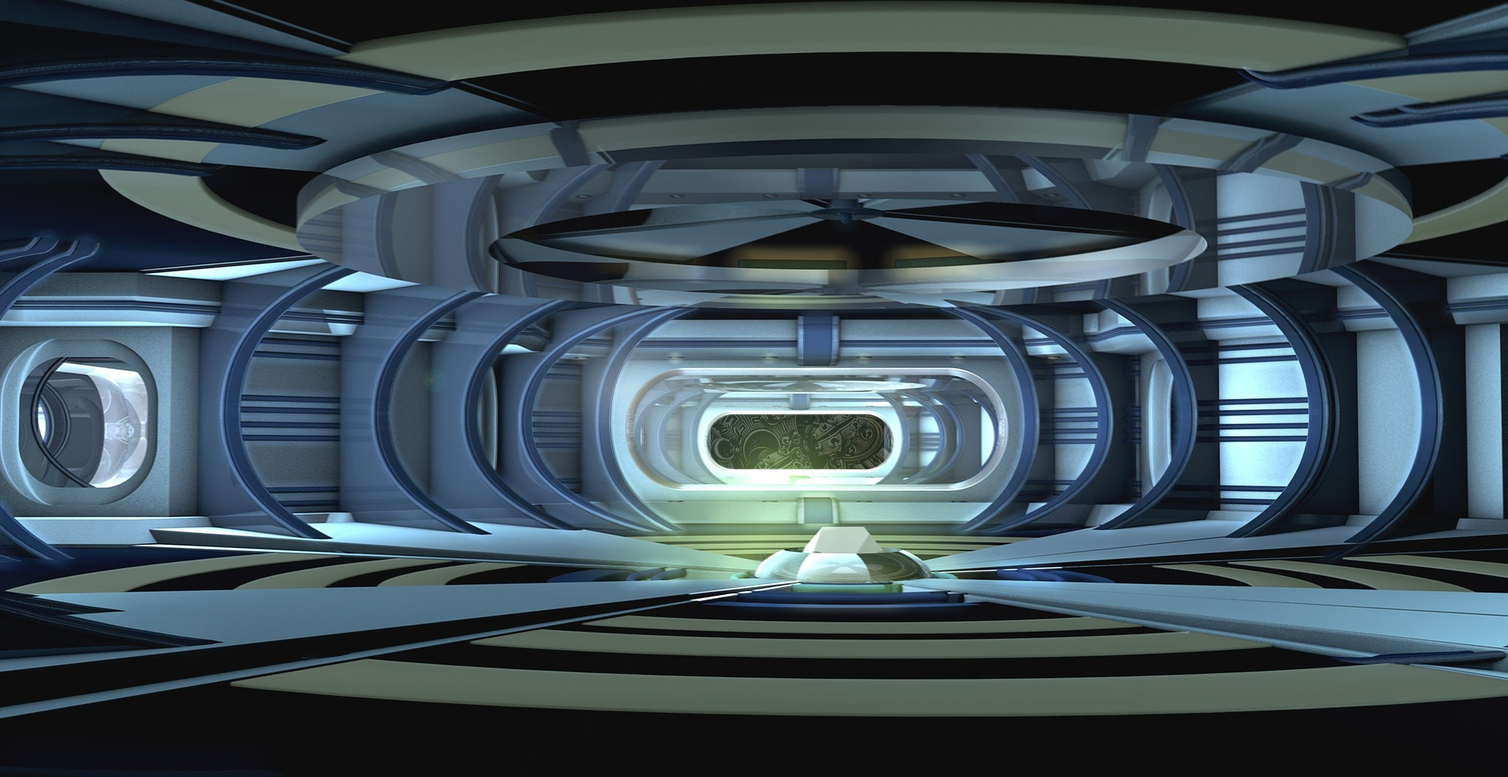
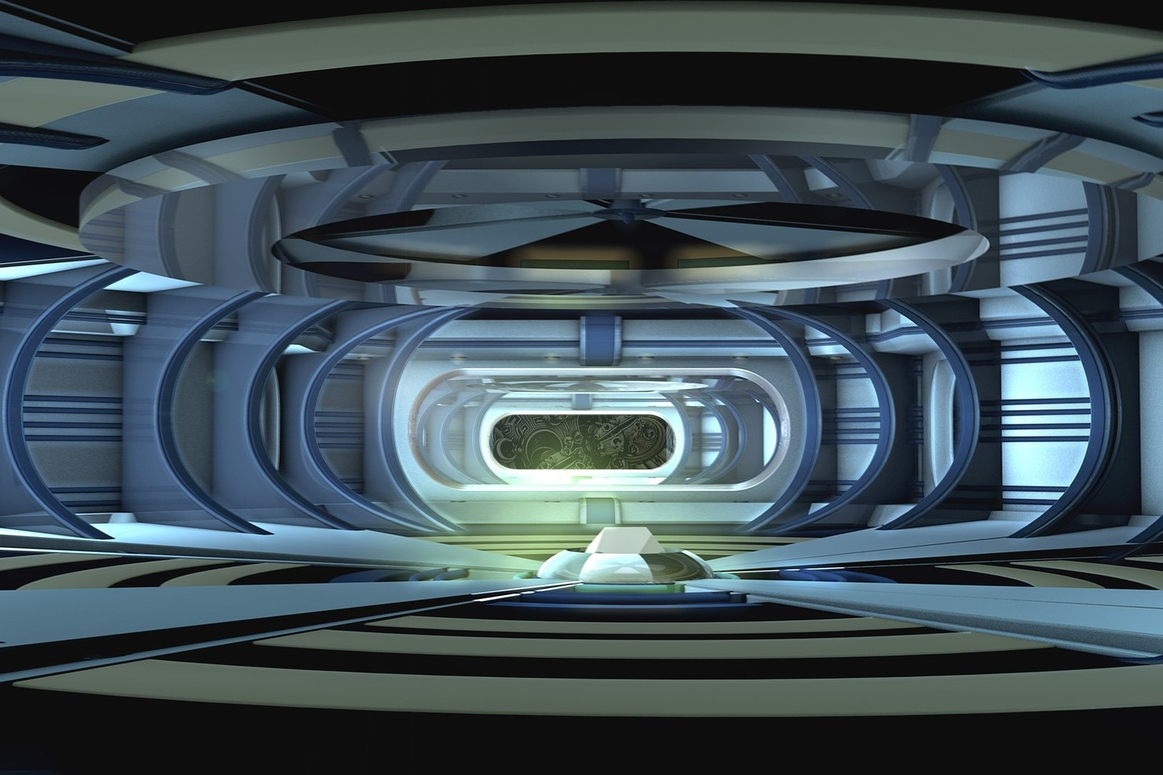
Added inventory to UI bar and edited background styling

diff --git a/Kepler.html b/Kepler.html
@@ -147,6 +147,23 @@ var saveAs=saveAs||navigator.msSaveBlob&&navigator.msSaveBlob.bind(navigator)||f
   	background: firebrick;
 }
 
+/*******************************
+*Background Styling
+*******************************/
+
+body{
+  background-repeat: no-repeat;
+  background-size: 90%;
+  background-position: 100% 0%;
+}
+
+
+
+
+
+
+
+
 
 
 </style><script role="script" id="twine-user-script" type="text/twine-javascript">
@@ -154,34 +171,49 @@ var saveAs=saveAs||navigator.msSaveBlob&&navigator.msSaveBlob.bind(navigator)||f
 
 
 
-</script><tw-tag name="Core" color="purple"></tw-tag>,<tw-tag name="BGProcess" color="red"></tw-tag><tw-passagedata pid="1" name="Start" tags="Core" position="292,34" size="200,100">&lt;img src = &quot;images/startbackground.jpg&quot; width = &quot;95%&quot; alt = &quot;A spaceship interior with a window looking out into space&quot;&gt;
 
-&lt;&lt;audio &quot;maintheme&quot; play volume 0.25 fadeoverto 5 0.75&gt;&gt;
 
-&lt;center&gt; You wake up in a daze on the a cold, metal floor. You get up and begin to shake off the feeling of confusion and fatigue. You look around the room to find anything that feels familiar. &lt;/center&gt;
 
-[[Continue]]</tw-passagedata><tw-passagedata pid="2" name="StoryInit" tags="BGProcess" position="50,100" size="100,100">// Caching audio files for playback
+
+
+
+
+
+
+</script><tw-tag name="Core" color="purple"></tw-tag>,<tw-tag name="BGProcess" color="red"></tw-tag><tw-passagedata pid="1" name="Start" tags="Core" position="292,34" size="200,100">&lt;&lt;script&gt;&gt;
+document.body.style.backgroundImage= &quot;url(&#39;images/startBackground.jpg&#39;)&quot;
+&lt;&lt;/script&gt;&gt;
+&lt;&lt;audio &quot;maintheme&quot; play volume 0.25 fadeoverto 5 0.75&gt;&gt;\
+You wake up in a daze on the a cold, metal floor. You get up and begin to shake off the feeling of confusion and fatigue. You look around the room to find anything that feels familiar.
+[[Continue]]\
+</tw-passagedata><tw-passagedata pid="2" name="StoryInit" tags="BGProcess" position="50,100" size="100,100">// Caching audio files for playback
 &lt;&lt;cacheaudio &quot;maintheme&quot; &quot;sounds/maintheme.mp3&quot;&gt;&gt;
 
 // Initialize karma variable to 0 (range is -100 to 100)
 &lt;&lt;set $karma = 0&gt;&gt;
 
-&lt;&lt;set $keycard to false&gt;&gt;</tw-passagedata><tw-passagedata pid="3" name="Window" tags="" position="95,371" size="100,100">&lt;img src = &quot;images/startwindow.jpg&quot; alt = &quot;A view from a large window&quot;&gt;
-
+/********************************************************
+*Initialize all inventory item types to 0, the value at
+*each index represents number of each object type held
+*[0]=red keys
+*[1]=grey keys
+*[2]=green keys
+*********************************************************/
+&lt;&lt;set $inventory=[0,0,0]&gt;&gt;</tw-passagedata><tw-passagedata pid="3" name="Window" tags="" position="95,371" size="100,100">&lt;&lt;script&gt;&gt;
+document.body.style.backgroundImage= &quot;url(&#39;images/startwindow.jpg&#39;)&quot;
+&lt;&lt;/script&gt;&gt;
 You look out through the thick glass pane to see nothing but a large, blue planet with a star peeking just over the horizon.
 
 [[Step back from window|Continue]]
-</tw-passagedata><tw-passagedata pid="4" name="Hallway" tags="" position="613,363" size="100,100">&lt;img src = &quot;images/corridor.jpg&quot; width = &quot;95%&quot; alt = &quot;A large hub with several hallways connected to it.&quot;&gt;
-
+</tw-passagedata><tw-passagedata pid="4" name="Hallway" tags="" position="613,363" size="100,100">&lt;&lt;script&gt;&gt;
+document.body.style.backgroundImage= &quot;url(&#39;images/corridor.jpg&#39;)&quot;
+&lt;&lt;/script&gt;&gt;
 You leave the room and find yourself in a large chamber with several long corridors. Each corridor seems more extensive than the next.
-
-[[Continue|AI Intro]] </tw-passagedata><tw-passagedata pid="5" name="Continue" tags="Core" position="288,165" size="200,100">&lt;img src = &quot;images/startbackground.jpg&quot; width = &quot;95%&quot; alt = &quot;A spaceship interior with a window looking out into space&quot;&gt;
-
-
+[[Continue|AI Intro]] </tw-passagedata><tw-passagedata pid="5" name="Continue" tags="Core" position="288,163" size="200,100">&lt;&lt;script&gt;&gt;
+document.body.style.backgroundImage= &quot;url(&#39;images/startBackground.jpg&#39;)&quot;
+&lt;&lt;/script&gt;&gt;
 You notice a large [[window|Window]] on the other side of the room and behind you there is a large [[Door]] . To the left you notice a [[desk|Desk]]
-
-
-&lt;&lt;if $keycard is true&gt;&gt;You have a keycard&lt;&lt;endif&gt;&gt;</tw-passagedata><tw-passagedata pid="6" name="StoryCaption" tags="" position="50,225" size="100,100">/****************************
+&lt;&lt;if $keycard is true&gt;&gt;You have a keycard&lt;&lt;endif&gt;&gt;</tw-passagedata><tw-passagedata pid="6" name="StoryCaption" tags="" position="48,223" size="100,100">/****************************
 * Karma meter
 ****************************/\
 \
@@ -192,8 +224,24 @@ Karma Status
 document.getElementById(&quot;karmameter&quot;).value = variables().karma;
 &lt;&lt;/script&gt;&gt;\
 &lt;&lt;print &quot;\n&quot; + $karma&gt;&gt;
-&lt;hr/&gt;</tw-passagedata><tw-passagedata pid="7" name="AI Intro" tags="" position="625,500" size="100,100">&lt;img src = &quot;images/corridor.jpg&quot; width = &quot;95%&quot; alt = &quot;A large hub with several hallways connected to it.&quot;&gt;
+\
+/*****************************
+*Inventory
+******************************/\
+&lt;hr/&gt;\
+&lt;div id=&quot;inventoryUI&quot; align=&quot;left&quot;&gt;\
+&lt;img src=&quot;images/keycardred.png&quot; alt=&quot;red keycard&quot; style=&quot;width:20%; vertical-align: middle;&quot;&gt;\
+&lt;span style=&quot;vertical-align: middle&quot;&gt; x &lt;&lt;print $inventory[0]&gt;&gt;&lt;/span&gt;
 
+&lt;img src=&quot;images/keycardgrey.png&quot; alt=&quot;grey keycard&quot; style=&quot;width:20%; vertical-align: middle;&quot;&gt;\
+&lt;span style=&quot;vertical-align: middle&quot;&gt; x &lt;&lt;print $inventory[1]&gt;&gt;&lt;/span&gt;
+
+&lt;img src=&quot;images/keycardgreen.png&quot; alt=&quot;green keycard&quot; style=&quot;width:20%; vertical-align: middle;&quot;&gt;\
+&lt;span style=&quot;vertical-align: middle&quot;&gt; x &lt;&lt;print $inventory[2]&gt;&gt;&lt;/span&gt;
+&lt;/div&gt;\
+&lt;&lt;script&gt;&gt;
+document.getElementById(&quot;inventoryUI&quot;).style.marginLeft=&quot;20px&quot;;
+&lt;&lt;/script&gt;&gt;\</tw-passagedata><tw-passagedata pid="7" name="AI Intro" tags="" position="625,501" size="100,100">
 A female voice comes over the spaceship&#39;s intercom and states,
 
 &quot;You have been hibernating for quite some time and we will soon be arriving at our destination, Kepler-452b. How are you feeling commander?&quot;
@@ -216,16 +264,17 @@ document.getElementById(&quot;karmameter&quot;).value = variables().karma;
 \
 /*Links are added that update karma state in ui bar and continue to a new passage depending on the response chosen*/
 
-</tw-passagedata><tw-passagedata pid="8" name="Ask Accusingly" tags="" position="750,400" size="100,100">&lt;img src = &quot;images/corridor.jpg&quot; width = &quot;95%&quot; alt = &quot;A large hub with several hallways connected to it.&quot;&gt;
-&quot;How dare you accuse me of such things, you were sent on this mission alone.&quot;</tw-passagedata><tw-passagedata pid="9" name="Ask Curiously" tags="" position="750,600" size="100,100">&lt;img src = &quot;images/corridor.jpg&quot; width = &quot;95%&quot; alt = &quot;A large hub with several hallways connected to it.&quot;&gt;
-&quot;You were sent on this mission alone, don&#39;t you remember commander?&quot;</tw-passagedata><tw-passagedata pid="10" name="Desk" tags="" position="224,373" size="100,100">
-
-You find a key card on the desk. [[Take keycard]]
-[[step away from desk|Continue]]
-
-</tw-passagedata><tw-passagedata pid="11" name="Take keycard" tags="" position="358,375" size="100,100">&lt;&lt;set $keycard to true&gt;&gt;
-
-You take the keycard [[step away from the desk|Continue]]</tw-passagedata><tw-passagedata pid="12" name="Door" tags="" position="473,363" size="100,100">&lt;&lt;if $keycard is true&gt;&gt; You use the keycard to open the door to the [[hallway|Hallway]] &lt;&lt;else&gt;&gt; The door is locked. [[Look around the room|Continue]] &lt;&lt;endif&gt;&gt;</tw-passagedata></tw-storydata></div>
+</tw-passagedata><tw-passagedata pid="8" name="Ask Accusingly" tags="" position="750,400" size="100,100">
+&quot;How dare you accuse me of such things, you were sent on this mission alone.&quot;</tw-passagedata><tw-passagedata pid="9" name="Ask Curiously" tags="" position="750,600" size="100,100">
+&quot;You were sent on this mission alone, don&#39;t you remember commander?&quot;</tw-passagedata><tw-passagedata pid="10" name="Desk" tags="" position="223,374" size="100,100">
+You find a key card on the desk.
+&lt;&lt;link [[Take the keycard|Continue]]&gt;&gt;\
+&lt;&lt;set $inventory[0]++&gt;&gt;\
+&lt;&lt;/link&gt;&gt;\</tw-passagedata><tw-passagedata pid="11" name="Door" tags="" position="473,363" size="100,100">&lt;&lt;if $inventory[0] gt 0&gt;&gt;
+You use the keycard to open the door to the [[hallway|Hallway]] 
+&lt;&lt;set $inventory[0]--&gt;&gt;\
+&lt;&lt;else&gt;&gt; The door is locked. [[Look around the room|Continue]]\
+&lt;&lt;endif&gt;&gt;</tw-passagedata></tw-storydata></div>
 	<script id="script-sugarcube" type="text/javascript">
 	/*! SugarCube JS */
 	if(document.documentElement.getAttribute("data-init")==="loading"){!function(window,document,jQuery,undefined){"use strict";function _classCallCheck(e,t){if(!(e instanceof t))throw new TypeError("Cannot call a class as a function")}function _toConsumableArray(e){if(Array.isArray(e)){for(var t=0,r=Array(e.length);t<e.length;t++)r[t]=e[t];return r}return Array.from(e)}var _createClass=function(){function e(e,t){for(var r=0;r<t.length;r++){var n=t[r];n.enumerable=n.enumerable||!1,n.configurable=!0,"value"in n&&(n.writable=!0),Object.defineProperty(e,n.key,n)}}return function(t,r,n){return r&&e(t.prototype,r),n&&e(t,n),t}}(),_slicedToArray=function(){function e(e,t){var r=[],n=!0,a=!1,i=undefined;try{for(var o,s=e[Symbol.iterator]();!(n=(o=s.next()).done)&&(r.push(o.value),!t||r.length!==t);n=!0);}catch(e){a=!0,i=e}finally{try{!n&&s.return&&s.return()}finally{if(a)throw i}}return r}return function(t,r){if(Array.isArray(t))return t;if(Symbol.iterator in Object(t))return e(t,r);throw new TypeError("Invalid attempt to destructure non-iterable instance")}}(),_typeof="function"==typeof Symbol&&"symbol"==typeof Symbol.iterator?function(e){return typeof e}:function(e){return e&&"function"==typeof Symbol&&e.constructor===Symbol&&e!==Symbol.prototype?"symbol":typeof e},Alert=function(){function e(e,t,r,n){var a="fatal"===e,i="Apologies! "+(a?"A fatal":"An")+" error has occurred.";i+=a?" Aborting.":" You may be able to continue, but some parts may not work properly.",null==t&&null==r||(i+="\n\nError",null!=t&&(i+=" ["+t+"]"),i+=null!=r?": "+r.replace(/^(?:(?:uncaught\s+(?:exception:\s+)?)?error:\s+)+/i,"")+".":": unknown error."),"object"===("undefined"==typeof n?"undefined":_typeof(n))&&n.stack&&(i+="\n\nStack Trace:\n"+n.stack),window.alert(i)}function t(t,r,n){e(null,t,r,n)}function r(t,r,n){e("fatal",t,r,n)}return function(e){window.onerror=function(n,a,i,o,s){"complete"===document.readyState?t(null,n,s):(r(null,n,s),window.onerror=e,"function"==typeof window.onerror&&window.onerror.apply(this,arguments))}}(window.onerror),Object.freeze(Object.defineProperties({},{error:{value:t},fatal:{value:r}}))}();!function(){function e(e,t){var a=String(e);switch(t){case"start":return a&&r.test(a)?a.replace(r,""):a;case"end":return a&&n.test(a)?a.replace(n,""):a;default:throw new Error('_trimFrom called with incorrect where parameter value: "'+t+'"')}}function t(e,t){var r=Number.parseInt(e,10)||0;if(r<1)return"";var n="undefined"==typeof t?"":String(t);for(""===n&&(n=" ");n.length<r;){var a=n.length,i=r-a;n+=a>i?n.slice(0,i):n}return n.length>r&&(n=n.slice(0,r)),n}var r=/^[\s\u00A0\uFEFF][\s\u00A0\uFEFF]*/,n=/[\s\u00A0\uFEFF][\s\u00A0\uFEFF]*$/;Array.prototype.includes||Object.defineProperty(Array.prototype,"includes",{configurable:!0,writable:!0,value:function(){if(null==this)throw new TypeError("Array.prototype.includes called on null or undefined");if(0===arguments.length)return!1;var e=this.length>>>0;if(0===e)return!1;var t=arguments[0],r=Number(arguments[1])||0;for(r<0&&(r=Math.max(0,e+r));r<e;++r){var n=this[r];if(t===n||t!==t&&n!==n)return!0}return!1}}),String.prototype.padStart||Object.defineProperty(String.prototype,"padStart",{configurable:!0,writable:!0,value:function(e,r){if(null==this)throw new TypeError("String.prototype.padStart called on null or undefined");var n=String(this),a=n.length,i=Number.parseInt(e,10);return i<=a?n:t(i-a,r)+n}}),String.prototype.padEnd||Object.defineProperty(String.prototype,"padEnd",{configurable:!0,writable:!0,value:function(e,r){if(null==this)throw new TypeError("String.prototype.padEnd called on null or undefined");var n=String(this),a=n.length,i=Number.parseInt(e,10);return i<=a?n:n+t(i-a,r)}}),String.prototype.trimStart||Object.defineProperty(String.prototype,"trimStart",{configurable:!0,writable:!0,value:function(){if(null==this)throw new TypeError("String.prototype.trimStart called on null or undefined");return e(this,"start")}}),String.prototype.trimLeft||Object.defineProperty(String.prototype,"trimLeft",{configurable:!0,writable:!0,value:function(){if(null==this)throw new TypeError("String.prototype.trimLeft called on null or undefined");return e(this,"start")}}),String.prototype.trimEnd||Object.defineProperty(String.prototype,"trimEnd",{configurable:!0,writable:!0,value:function(){if(null==this)throw new TypeError("String.prototype.trimEnd called on null or undefined");return e(this,"end")}}),String.prototype.trimRight||Object.defineProperty(String.prototype,"trimRight",{configurable:!0,writable:!0,value:function(){if(null==this)throw new TypeError("String.prototype.trimRight called on null or undefined");return e(this,"end")}})}(),function(){function _random(){var e=void 0,t=void 0;switch(arguments.length){case 0:throw new Error("_random called with insufficient parameters");case 1:e=0,t=arguments[0];break;default:e=arguments[0],t=arguments[1]}if(e>t){var r=[t,e];e=r[0],t=r[1]}return Math.floor(_nativeMathRandom()*(t-e+1))+e}function _randomIndex(e,t){var r=void 0,n=void 0;switch(t.length){case 1:r=0,n=e-1;break;case 2:r=0,n=Math.trunc(t[1]);break;default:r=Math.trunc(t[1]),n=Math.trunc(t[2])}return Number.isNaN(r)?r=0:!Number.isFinite(r)||r>=e?r=e-1:r<0&&(r=e+r,r<0&&(r=0)),Number.isNaN(n)?n=0:!Number.isFinite(n)||n>=e?n=e-1:n<0&&(n=e+n,n<0&&(n=e-1)),_random(r,n)}function _getCodePointStartAndEnd(e,t){var r=e.charCodeAt(t);if(Number.isNaN(r))return{char:"",start:-1,end:-1};if(r<55296||r>57343)return{char:e.charAt(t),start:t,end:t};if(r>=55296&&r<=56319){var n=t+1;if(n>=e.length)throw new Error("high surrogate without trailing low surrogate");var a=e.charCodeAt(n);if(a<56320||a>57343)throw new Error("high surrogate without trailing low surrogate");return{char:e.charAt(t)+e.charAt(n),start:t,end:n}}if(0===t)throw new Error("low surrogate without leading high surrogate");var i=t-1,o=e.charCodeAt(i);if(o<55296||o>56319)throw new Error("low surrogate without leading high surrogate");return{char:e.charAt(i)+e.charAt(t),start:i,end:t}}var _nativeMathRandom=Math.random;Object.defineProperty(Array,"random",{configurable:!0,writable:!0,value:function(e){if(null==e||"object"!==("undefined"==typeof e?"undefined":_typeof(e))||!Object.prototype.hasOwnProperty.call(e,"length"))throw new TypeError("Array.random array parameter must be an array or array-lke object");var t=e.length>>>0;if(0!==t){var r=0===arguments.length?_random(0,t-1):_randomIndex(t,Array.prototype.slice.call(arguments,1));return e[r]}}}),Object.defineProperty(Array.prototype,"concatUnique",{configurable:!0,writable:!0,value:function e(){if(null==this)throw new TypeError("Array.prototype.concatUnique called on null or undefined");var t=Array.from(this);if(0===arguments.length)return t;var r=Array.prototype.reduce.call(arguments,function(e,t){return e.concat(t)},[]),n=r.length;if(0===n)return t;for(var a=Array.prototype.indexOf,i=Array.prototype.push,o=0;o<n;++o){var e=r[o];a.call(t,e)===-1&&i.call(t,e)}return t}}),Object.defineProperty(Array.prototype,"count",{configurable:!0,writable:!0,value:function(){if(null==this)throw new TypeError("Array.prototype.count called on null or undefined");for(var e=Array.prototype.indexOf,t=arguments[0],r=Number(arguments[1])||0,n=0;(r=e.call(this,t,r))!==-1;)++n,++r;return n}}),Object.defineProperty(Array.prototype,"delete",{configurable:!0,writable:!0,value:function(){if(null==this)throw new TypeError("Array.prototype.delete called on null or undefined");if(0===arguments.length)return[];var e=this.length>>>0;if(0===e)return[];for(var t=Array.prototype.indexOf,r=Array.prototype.push,n=Array.prototype.splice,a=Array.prototype.concat.apply([],arguments),i=[],o=0,s=a.length;o<s;++o)for(var u=a[o],l=0;(l=t.call(this,u,l))!==-1;)r.apply(i,n.call(this,l,1));return i}}),Object.defineProperty(Array.prototype,"deleteAt",{configurable:!0,writable:!0,value:function(){if(null==this)throw new TypeError("Array.prototype.deleteAt called on null or undefined");if(0===arguments.length)return[];var e=this.length>>>0;if(0===e)return[];for(var t=Array.prototype.splice,r=[].concat(_toConsumableArray(new Set(Array.prototype.concat.apply([],arguments).map(function(t){return t<0?Math.max(0,e+t):t})).values())),n=[].concat(_toConsumableArray(r)).sort(function(e,t){return t-e}),a=[],i=0,o=r.length;i<o;++i)a[i]=this[r[i]];for(var s=0,u=n.length;s<u;++s)t.call(this,n[s],1);return a}}),Object.defineProperty(Array.prototype,"flatten",{configurable:!0,writable:!0,value:function(){if(null==this)throw new TypeError("Array.prototype.flatten called on null or undefined");return Array.prototype.reduce.call(this,function(e,t){return e.concat(Array.isArray(t)?t.flatten():t)},[])}}),Object.defineProperty(Array.prototype,"includesAll",{configurable:!0,writable:!0,value:function(){if(null==this)throw new TypeError("Array.prototype.includesAll called on null or undefined");if(1===arguments.length)return Array.isArray(arguments[0])?Array.prototype.includesAll.apply(this,arguments[0]):Array.prototype.includes.apply(this,arguments);for(var e=0,t=arguments.length;e<t;++e)if(!Array.prototype.some.call(this,function(e){return e===this.val||e!==e&&this.val!==this.val},{val:arguments[e]}))return!1;return!0}}),Object.defineProperty(Array.prototype,"includesAny",{configurable:!0,writable:!0,value:function(){if(null==this)throw new TypeError("Array.prototype.includesAny called on null or undefined");if(1===arguments.length)return Array.isArray(arguments[0])?Array.prototype.includesAny.apply(this,arguments[0]):Array.prototype.includes.apply(this,arguments);for(var e=0,t=arguments.length;e<t;++e)if(Array.prototype.some.call(this,function(e){return e===this.val||e!==e&&this.val!==this.val},{val:arguments[e]}))return!0;return!1}}),Object.defineProperty(Array.prototype,"pluck",{configurable:!0,writable:!0,value:function(){if(null==this)throw new TypeError("Array.prototype.pluck called on null or undefined");var e=this.length>>>0;if(0!==e){var t=0===arguments.length?_random(0,e-1):_randomIndex(e,[].concat(Array.prototype.slice.call(arguments)));return Array.prototype.splice.call(this,t,1)[0]}}}),Object.defineProperty(Array.prototype,"pluckMany",{configurable:!0,writable:!0,value:function(e){if(null==this)throw new TypeError("Array.prototype.pluckMany called on null or undefined");var t=this.length>>>0;if(0===t)return[];var r=Math.trunc(e);if(!Number.isInteger(r))throw new Error("Array.prototype.pluckMany want parameter must be an integer");if(r<1)return[];r>t&&(r=t);var n=Array.prototype.splice,a=[],i=t-1;do a.push(n.call(this,_random(0,i--),1)[0]);while(a.length<r);return a}}),Object.defineProperty(Array.prototype,"pushUnique",{configurable:!0,writable:!0,value:function e(){if(null==this)throw new TypeError("Array.prototype.pushUnique called on null or undefined");var t=arguments.length;if(0===t)return this.length>>>0;for(var r=Array.prototype.indexOf,n=Array.prototype.push,a=0;a<t;++a){var e=arguments[a];r.call(this,e)===-1&&n.call(this,e)}return this.length>>>0}}),Object.defineProperty(Array.prototype,"random",{configurable:!0,writable:!0,value:function(){if(null==this)throw new TypeError("Array.prototype.random called on null or undefined");var e=this.length>>>0;if(0!==e){var t=0===arguments.length?_random(0,e-1):_randomIndex(e,[].concat(Array.prototype.slice.call(arguments)));return this[t]}}}),Object.defineProperty(Array.prototype,"randomMany",{configurable:!0,writable:!0,value:function(e){if(null==this)throw new TypeError("Array.prototype.randomMany called on null or undefined");var t=this.length>>>0;if(0===t)return[];var r=Math.trunc(e);if(!Number.isInteger(r))throw new Error("Array.prototype.randomMany want parameter must be an integer");if(r<1)return[];r>t&&(r=t);var n=new Map,a=[],i=t-1;do{var o=void 0;do o=_random(0,i);while(n.has(o));n.set(o,!0),a.push(this[o])}while(a.length<r);return a}}),Object.defineProperty(Array.prototype,"shuffle",{configurable:!0,writable:!0,value:function(){if(null==this)throw new TypeError("Array.prototype.shuffle called on null or undefined");var e=this.length>>>0;if(0===e)return this;for(var t=e-1;t>0;--t){var r=Math.floor(_nativeMathRandom()*(t+1));if(t!==r){var n=this[t];this[t]=this[r],this[r]=n}}return this}}),Object.defineProperty(Array.prototype,"unshiftUnique",{configurable:!0,writable:!0,value:function e(){if(null==this)throw new TypeError("Array.prototype.unshiftUnique called on null or undefined");var t=arguments.length;if(0===t)return this.length>>>0;for(var r=Array.prototype.indexOf,n=Array.prototype.unshift,a=0;a<t;++a){var e=arguments[a];r.call(this,e)===-1&&n.call(this,e)}return this.length>>>0}}),Object.defineProperty(Function.prototype,"partial",{configurable:!0,writable:!0,value:function(){if(null==this)throw new TypeError("Function.prototype.partial called on null or undefined");var e=Array.prototype.slice,t=this,r=e.call(arguments,0);return function(){for(var n=[],a=0,i=0;i<r.length;++i)n.push(r[i]===undefined?arguments[a++]:r[i]);return t.apply(this,n.concat(e.call(arguments,a)))}}}),Object.defineProperty(Math,"clamp",{configurable:!0,writable:!0,value:function e(t,r,n){var e=Number(t);return Number.isNaN(e)?NaN:e.clamp(r,n)}}),Object.defineProperty(Math,"easeInOut",{configurable:!0,writable:!0,value:function(e){return 1-(Math.cos(Number(e)*Math.PI)+1)/2}}),Object.defineProperty(Number.prototype,"clamp",{configurable:!0,writable:!0,value:function(){if(null==this)throw new TypeError("Number.prototype.clamp called on null or undefined");if(2!==arguments.length)throw new Error("Number.prototype.clamp called with an incorrect number of parameters");var e=Number(arguments[0]),t=Number(arguments[1]);if(e>t){var r=[t,e];e=r[0],t=r[1]}return Math.min(Math.max(this,e),t)}}),RegExp.escape||!function(){var e=/[\\^$*+?.()|[\]{}]/g,t=new RegExp(e.source);Object.defineProperty(RegExp,"escape",{configurable:!0,writable:!0,value:function(r){var n=String(r);return n&&t.test(n)?n.replace(e,"\\$&"):n}})}(),function(){var e=/{(\d+)(?:,([+-]?\d+))?}/g,t=new RegExp(e.source);Object.defineProperty(String,"format",{configurable:!0,writable:!0,value:function(r){function n(e,t,r){if(!t)return e;var n=Math.abs(t)-e.length;if(n<1)return e;var a=String(r).repeat(n);return t<0?e+a:a+e}if(arguments.length<2)return 0===arguments.length?"":r;var a=2===arguments.length&&Array.isArray(arguments[1])?[].concat(_toConsumableArray(arguments[1])):Array.prototype.slice.call(arguments,1);return 0===a.length?r:t.test(r)?(e.lastIndex=0,r.replace(e,function(e,t,r){var i=a[t];if(null==i)return"";for(;"function"==typeof i;)i=i();switch("undefined"==typeof i?"undefined":_typeof(i)){case"string":break;case"object":i=JSON.stringify(i);break;default:i=String(i)}return n(i,r?Number.parseInt(r,10):0," ")})):r}})}(),Object.defineProperty(String.prototype,"contains",{configurable:!0,writable:!0,value:function(){if(null==this)throw new TypeError("String.prototype.contains called on null or undefined");return String.prototype.indexOf.apply(this,arguments)!==-1}}),Object.defineProperty(String.prototype,"count",{configurable:!0,writable:!0,value:function(){if(null==this)throw new TypeError("String.prototype.count called on null or undefined");var e=String(arguments[0]||"");if(""===e)return 0;for(var t=String.prototype.indexOf,r=e.length,n=Number(arguments[1])||0,a=0;(n=t.call(this,e,n))!==-1;)++a,n+=r;return a}}),Object.defineProperty(String.prototype,"splice",{configurable:!0,writable:!0,value:function(e,t,r){if(null==this)throw new TypeError("String.prototype.splice called on null or undefined");var n=this.length>>>0;if(0===n)return"";var a=Number(e);Number.isSafeInteger(a)?a<0&&(a+=n,a<0&&(a=0)):a=0,a>n&&(a=n);var i=Number(t);(!Number.isSafeInteger(i)||i<0)&&(i=0);var o=this.slice(0,a);return"undefined"!=typeof r&&(o+=r),a+i<n&&(o+=this.slice(a+i)),o}}),Object.defineProperty(String.prototype,"splitOrEmpty",{configurable:!0,writable:!0,value:function(){if(null==this)throw new TypeError("String.prototype.splitOrEmpty called on null or undefined");return""===String(this)?[]:String.prototype.split.apply(this,arguments)}}),Object.defineProperty(String.prototype,"toLocaleUpperFirst",{configurable:!0,writable:!0,value:function(){if(null==this)throw new TypeError("String.prototype.toLocaleUpperFirst called on null or undefined");var e=String(this),t=_getCodePointStartAndEnd(e,0),r=t.char,n=t.end;return n===-1?"":r.toLocaleUpperCase()+e.slice(n+1)}}),Object.defineProperty(String.prototype,"toUpperFirst",{configurable:!0,writable:!0,value:function(){if(null==this)throw new TypeError("String.prototype.toUpperFirst called on null or undefined");var e=String(this),t=_getCodePointStartAndEnd(e,0),r=t.char,n=t.end;return n===-1?"":r.toUpperCase()+e.slice(n+1)}}),Object.defineProperty(Date.prototype,"toJSON",{configurable:!0,writable:!0,value:function(){return["(revive:date)",this.toISOString()]}}),Object.defineProperty(Function.prototype,"toJSON",{configurable:!0,writable:!0,value:function(){return["(revive:eval)","("+this.toString()+")"]}}),Object.defineProperty(Map.prototype,"toJSON",{configurable:!0,writable:!0,value:function(){return["(revive:map)",[].concat(_toConsumableArray(this))]}}),Object.defineProperty(RegExp.prototype,"toJSON",{configurable:!0,writable:!0,value:function(){return["(revive:eval)",this.toString()]}}),Object.defineProperty(Set.prototype,"toJSON",{configurable:!0,writable:!0,value:function(){return["(revive:set)",[].concat(_toConsumableArray(this))]}}),Object.defineProperty(JSON,"reviveWrapper",{configurable:!0,writable:!0,value:function(e,t){if("string"!=typeof e)throw new TypeError("JSON.reviveWrapper code parameter must be a string");return["(revive:eval)",[e,t]]}}),Object.defineProperty(JSON,"_real_parse",{value:JSON.parse}),Object.defineProperty(JSON,"parse",{configurable:!0,writable:!0,value:function value(text,reviver){return JSON._real_parse(text,function(key,val){var value=val;if(Array.isArray(value)&&2===value.length)switch(value[0]){case"(revive:set)":value=new Set(value[1]);break;case"(revive:map)":value=new Map(value[1]);break;case"(revive:date)":value=new Date(value[1]);break;case"(revive:eval)":try{if(Array.isArray(value[1])){var $ReviveData$=value[1][1];value=eval(value[1][0])}else value=eval(value[1])}catch(e){}}else if("string"==typeof value&&"@@revive@@"===value.slice(0,10))try{value=eval(value.slice(10))}catch(e){}if("function"==typeof reviver)try{value=reviver(key,value)}catch(e){}return value})}}),Object.defineProperty(Array.prototype,"contains",{configurable:!0,writable:!0,value:function(){if(null==this)throw new TypeError("Array.prototype.contains called on null or undefined");return Array.prototype.includes.apply(this,arguments)}}),Object.defineProperty(Array.prototype,"containsAll",{configurable:!0,writable:!0,value:function(){if(null==this)throw new TypeError("Array.prototype.containsAll called on null or undefined");return Array.prototype.includesAll.apply(this,arguments)}}),Object.defineProperty(Array.prototype,"containsAny",{configurable:!0,writable:!0,value:function(){if(null==this)throw new TypeError("Array.prototype.containsAny called on null or undefined");return Array.prototype.includesAny.apply(this,arguments)}}),Object.defineProperty(String.prototype,"readBracketedList",{configurable:!0,writable:!0,value:function(){if(null==this)throw new TypeError("String.prototype.readBracketedList called on null or undefined");for(var e=new RegExp("(?:\\[\\[((?:\\s|\\S)*?)\\]\\])|([^\"'\\s]\\S*)","gm"),t=[],r=void 0;null!==(r=e.exec(this));)r[1]?t.push(r[1]):r[2]&&t.push(r[2]);return t}})}();var Browser=function(){var e=navigator.userAgent.toLowerCase(),t=e.includes("windows phone"),r=Object.freeze({Android:!t&&e.includes("android"),BlackBerry:/blackberry|bb10/.test(e),iOS:!t&&/ip(?:hone|ad|od)/.test(e),Windows:t||e.includes("iemobile"),any:function(){return r.Android||r.BlackBerry||r.iOS||r.Windows}}),n=!r.Windows&&!/khtml|trident|edge/.test(e)&&e.includes("gecko"),a=!e.includes("opera")&&/msie|trident/.test(e),i=a?function(){var t=/(?:msie\s+|rv:)(\d+\.\d)/.exec(e);return t?Number(t[1]):0}():null,o=e.includes("opera")||e.includes(" opr/"),s=o?function(){var t=new RegExp((/khtml|chrome/.test(e)?"opr":"version")+"\\/(\\d+\\.\\d+)"),r=t.exec(e);return r?Number(r[1]):0}():null;return Object.freeze({userAgent:e,isMobile:r,isGecko:n,isIE:a,ieVersion:i,isOpera:o,operaVersion:s})}(),Has=function(){var e=function(){try{return"function"==typeof document.createElement("audio").canPlayType}catch(e){}return!1}(),t=function(){try{return"Blob"in window&&"File"in window&&"FileList"in window&&"FileReader"in window&&!Browser.isMobile.any()&&(!Browser.isOpera||Browser.operaVersion>=15)}catch(e){}return!1}(),r=function(){try{return"geolocation"in navigator&&"function"==typeof navigator.geolocation.getCurrentPosition&&"function"==typeof navigator.geolocation.watchPosition}catch(e){}return!1}(),n=function(){try{return"MutationObserver"in window&&"function"==typeof window.MutationObserver}catch(e){}return!1}(),a=function(){try{return"performance"in window&&"function"==typeof window.performance.now}catch(e){}return!1}();return Object.freeze({audio:e,fileAPI:t,geolocation:r,mutationObserver:n,performance:a})}(),_ref3=function(){function e(t){if("object"!==("undefined"==typeof t?"undefined":_typeof(t))||null==t)return t;if("function"==typeof t.clone)return t.clone(!0);if(t.nodeType&&"function"==typeof t.cloneNode)return t.cloneNode(!0);var r=void 0;return Array.isArray(t)?r=[]:t instanceof Date?r=new Date(t.getTime()):t instanceof Map?(r=new Map,t.forEach(function(t,n){r.set(n,e(t))})):t instanceof RegExp?r=new RegExp(t):t instanceof Set?(r=new Set,t.forEach(function(t){r.add(e(t))})):r=Object.create(Object.getPrototypeOf(t)),Object.keys(t).forEach(function(n){return r[n]=e(t[n])}),r}function t(e){for(var t=document.createDocumentFragment(),r=document.createElement("p"),n=void 0;null!==(n=e.firstChild);){if(n.nodeType===Node.ELEMENT_NODE){var a=n.nodeName.toUpperCase();switch(a){case"BR":if(null!==n.nextSibling&&n.nextSibling.nodeType===Node.ELEMENT_NODE&&"BR"===n.nextSibling.nodeName.toUpperCase()){e.removeChild(n.nextSibling),e.removeChild(n),t.appendChild(r),r=document.createElement("p");continue}if(!r.hasChildNodes()){e.removeChild(n);continue}break;case"ADDRESS":case"ARTICLE":case"ASIDE":case"BLOCKQUOTE":case"CENTER":case"DIV":case"DL":case"FIGURE":case"FOOTER":case"FORM":case"H1":case"H2":case"H3":case"H4":case"H5":case"H6":case"HEADER":case"HR":case"MAIN":case"NAV":case"OL":case"P":case"PRE":case"SECTION":case"TABLE":case"UL":r.hasChildNodes()&&(t.appendChild(r),r=document.createElement("p")),t.appendChild(n);continue}}r.appendChild(n)}r.hasChildNodes()&&t.appendChild(r),e.appendChild(t)}function r(){try{return document.activeElement||null}catch(e){return null}}function n(e,t,r){var n="object"===("undefined"==typeof e?"undefined":_typeof(e))?e:document.getElementById(e);if(null==n)return null;var a=Array.isArray(t)?t:[t];jQuery(n).empty();for(var i=0,o=a.length;i<o;++i)if(Story.has(a[i]))return new Wikifier(n,Story.get(a[i]).processText().trim()),n;if(null!=r){var s=String(r).trim();""!==s&&new Wikifier(n,s)}return n}function a(e,t,r){return jQuery(document.createElement("span")).addClass("error").attr("title",r).text(L10n.get("errorTitle")+": "+(t||"unknown error")).appendTo(e),!1}function i(e,t){var r=i;switch("undefined"==typeof e?"undefined":_typeof(e)){case"number":if(Number.isNaN(e))return t;break;case"object":if(null===e)return t;if(Array.isArray(e))return e.map(function(e){return r(e,t)}).join(", ");if(e instanceof Set)return[].concat(_toConsumableArray(e)).map(function(e){return r(e,t)}).join(", ");if(e instanceof Map){var n=[].concat(_toConsumableArray(e)).map(function(e){return r(e[0],t)+" ⇒ "+r(e[1],t)}).join("; ");return"( "+n+" )"}return e instanceof Date?e.toLocaleString():"function"==typeof e.toString?e.toString():Object.prototype.toString.call(e);case"function":case"undefined":return t}return String(e)}return Object.freeze(Object.defineProperties({},{clone:{value:e},convertBreaks:{value:t},safeActiveElement:{value:r},setPageElement:{value:n},throwError:{value:a},toStringOrDefault:{value:i}}))}(),clone=_ref3.clone,convertBreaks=_ref3.convertBreaks,safeActiveElement=_ref3.safeActiveElement,setPageElement=_ref3.setPageElement,throwError=_ref3.throwError,toStringOrDefault=_ref3.toStringOrDefault;!function(){function e(e){13!==e.which&&32!==e.which||(e.preventDefault(),jQuery(safeActiveElement()||this).trigger("click"))}function t(e){return function(){var t=jQuery(this);t.is("[aria-pressed]")&&t.attr("aria-pressed","true"===t.attr("aria-pressed")?"false":"true"),e.apply(this,arguments)}}function r(e){return t(function(){jQuery(this).off(".aria-clickable").removeAttr("tabindex aria-controls aria-pressed").not("a,button").removeAttr("role").end().filter("button").prop("disabled",!0),e.apply(this,arguments)})}jQuery.fn.extend({ariaClick:function(n,a){if(0===this.length||0===arguments.length)return this;var i=n,o=a;return null==o&&(o=i,i=undefined),i=jQuery.extend({namespace:undefined,one:!1,selector:undefined,data:undefined,controls:undefined,pressed:undefined,label:undefined},i),"string"!=typeof i.namespace?i.namespace="":"."!==i.namespace[0]&&(i.namespace="."+i.namespace),"boolean"==typeof i.pressed&&(i.pressed=i.pressed?"true":"false"),this.filter("button").prop("type","button"),this.not("a,button").attr("role","button"),this.attr("tabindex",0),null!=i.controls&&this.attr("aria-controls",i.controls),null!=i.pressed&&this.attr("aria-pressed",i.pressed),null!=i.label&&this.attr({"aria-label":i.label,title:i.label}),this.not("button").on("keypress.aria-clickable"+i.namespace,i.selector,e),this.on("click.aria-clickable"+i.namespace,i.selector,i.data,i.one?r(o):t(o)),this}})}(),function(){jQuery.extend({wikiWithOptions:function(e){for(var t=arguments.length,r=Array(t>1?t-1:0),n=1;n<t;n++)r[n-1]=arguments[n];if(0!==r.length){var a=document.createDocumentFragment();r.forEach(function(t){return new Wikifier(a,t,e)});var i=[].concat(_toConsumableArray(a.querySelectorAll(".error"))).map(function(e){return e.textContent.replace(/^(?:(?:Uncaught\s+)?Error:\s+)+/,"")});if(i.length>0)throw new Error(i.join("; "))}},wiki:function(){for(var e=arguments.length,t=Array(e),r=0;r<e;r++)t[r]=arguments[r];this.wikiWithOptions.apply(this,[undefined].concat(t))}}),jQuery.fn.extend({wikiWithOptions:function(e){for(var t=arguments.length,r=Array(t>1?t-1:0),n=1;n<t;n++)r[n-1]=arguments[n];if(0===this.length||0===r.length)return this;var a=document.createDocumentFragment();return r.forEach(function(t){return new Wikifier(a,t,e)}),this.append(a),this},wiki:function(){for(var e=arguments.length,t=Array(e),r=0;r<e;r++)t[r]=arguments[r];return this.wikiWithOptions.apply(this,[undefined].concat(t))}})}();var Util=function(){function e(e){return Object.freeze(Object.assign(Object.create(null),e))}function t(e){return Object.prototype.toString.call(e).slice(8,-1)}function r(e){var t=void 0;switch("undefined"==typeof e?"undefined":_typeof(e)){case"number":t=e;break;case"string":t=Number(e);break;default:return!1}return!Number.isNaN(t)&&Number.isFinite(t)}function n(e){return"boolean"==typeof e||"string"==typeof e&&("true"===e||"false"===e)}function a(e){return String(e).trim().replace(/[^\w\s\u2013\u2014-]+/g,"").replace(/[_\s\u2013\u2014-]+/g,"-").toLocaleLowerCase()}function i(e){if(null==e)return"";var t=String(e);return t&&h.test(t)?t.replace(p,function(e){return g[e]}):t}function o(e){if(null==e)return"";var t=String(e);return t&&y.test(t)?t.replace(m,function(e){return v[e.toLowerCase()]}):t}function s(e,t){var r=String(e),n=Math.trunc(t),a=r.charCodeAt(n);if(Number.isNaN(a))return{char:"",start:-1,end:-1};var i={char:r.charAt(n),start:n,end:n};if(a<55296||a>57343)return i;if(a>=55296&&a<=56319){var o=n+1;if(o>=r.length)return i;var s=r.charCodeAt(o);return s<56320||s>57343?i:(i.char=i.char+r.charAt(o),i.end=o,i)}if(0===n)return i;var u=n-1,l=r.charCodeAt(u);return l<55296||l>56319?i:(i.char=r.charAt(u)+i.char,i.start=u,i)}function u(){return(Has.performance?performance:Date).now()}function l(e){var t=/^([+-]?(?:\d*\.)?\d+)([Mm]?[Ss])$/,r=t.exec(String(e));if(null===r)throw new SyntaxError('invalid time value syntax: "'+e+'"');var n=Number(r[1]);if(/^[Ss]$/.test(r[2])&&(n*=1e3),Number.isNaN(n)||!Number.isFinite(n))throw new RangeError('invalid time value: "'+e+'"');return n}function c(e){if("number"!=typeof e||Number.isNaN(e)||!Number.isFinite(e)){var t=void 0;switch("undefined"==typeof e?"undefined":_typeof(e)){case"string":t='"'+e+'"';break;case"number":t=String(e);break;default:t=Object.prototype.toString.call(e)}throw new Error("invalid milliseconds: "+t)}return e+"ms"}function d(e){if(!e.includes("-"))switch(e){case"bgcolor":return"backgroundColor";case"float":return"cssFloat";default:return e}var t="-ms-"===e.slice(0,4)?e.slice(1):e;return t.split("-").map(function(e,t){return 0===t?e:e.toUpperFirst()}).join("")}function f(e){var t=document.createElement("a"),r=Object.create(null);t.href=e,t.search&&t.search.replace(/^\?/,"").splitOrEmpty(/(?:&(?:amp;)?|;)/).forEach(function(e){var t=e.split("="),n=_slicedToArray(t,2),a=n[0],i=n[1];r[a]=i});var n=t.host&&"/"!==t.pathname[0]?"/"+t.pathname:t.pathname;return{href:t.href,protocol:t.protocol,host:t.host,hostname:t.hostname,port:t.port,path:""+n+t.search,pathname:n,query:t.search,search:t.search,queries:r,searches:r,hash:t.hash}}var p=/[&<>"'`]/g,h=new RegExp(p.source),g=Object.freeze({"&":"&amp;","<":"&lt;",">":"&gt;",'"':"&quot;","'":"&#39;","`":"&#96;"}),m=/&(?:amp|#38|#x26|lt|#60|#x3c|gt|#62|#x3e|quot|#34|#x22|apos|#39|#x27|#96|#x60);/gi,y=new RegExp(m.source,"i"),v=Object.freeze({"&amp;":"&","&#38;":"&","&#x26;":"&","&lt;":"<","&#60;":"<","&#x3c;":"<","&gt;":">","&#62;":">","&#x3e;":">","&quot;":'"',"&#34;":'"',"&#x22;":'"',"&apos;":"'","&#39;":"'","&#x27;":"'","&#96;":"`","&#x60;":"`"});return Object.freeze(Object.defineProperties({},{toEnum:{value:e},toStringTag:{value:t},isNumeric:{value:r},isBoolean:{value:n},slugify:{value:a},escape:{value:i},unescape:{value:o},charAndPosAt:{value:s},fromCssTime:{value:l},toCssTime:{value:c},fromCssProperty:{value:d},parseUrl:{value:f},now:{value:u},random:{value:Math.random},entityEncode:{value:i},entityDecode:{value:o},evalExpression:{value:function(){return Scripting.evalJavaScript.apply(Scripting,arguments)}},evalStatements:{value:function(){return Scripting.evalJavaScript.apply(Scripting,arguments)}}}))}(),SimpleAudio=function(){function e(){return g}function t(e){g=!!e,l("mute",g)}function r(){return p}function n(e){p=Math.clamp(e,.2,5),l("rate",p)}function a(){return h}function i(e){h=Math.clamp(e,0,1),l("volume",h)}function o(){l("stop")}function s(e,t){if("function"!=typeof t)throw new Error("callback parameter must be a function");f.set(e,t)}function u(e){f.delete(e)}function l(e,t){f.forEach(function(r){return r(e,t)})}function c(){for(var e=arguments.length,t=Array(e),r=0;r<e;r++)t[r]=arguments[r];return new(Function.prototype.bind.apply(m,[null].concat(t)))}function d(){for(var e=arguments.length,t=Array(e),r=0;r<e;r++)t[r]=arguments[r];return new(Function.prototype.bind.apply(y,[null].concat(t)))}var f=new Map,p=1,h=1,g=!1,m=function(){function e(t){if(_classCallCheck(this,e),Array.isArray(t))this._create(t);else{if(!(t instanceof e))throw new Error("sources parameter must be an array of either URLs or source objects");this._copy(t)}}return _createClass(e,[{key:"_create",value:function(t){if(!Array.isArray(t)||0===t.length)throw new Error("sources parameter must be an array of either URLs or source objects");var r=/^data:\s*audio\/([^;,]+)\s*[;,]/i,n=/\.([^.\/\\]+)$/,a=e.getType,i=[],o=document.createElement("audio");if(t.forEach(function(e){var t=null;switch("undefined"==typeof e?"undefined":_typeof(e)){case"string":var s=void 0;if("data:"===e.slice(0,5)){if(s=r.exec(e),null===s)throw new Error("source data URI missing media type")}else if(s=n.exec(Util.parseUrl(e).pathname),null===s)throw new Error("source URL missing file extension");var u=a(s[1]);null!==u&&(t={src:e,type:u});break;case"object":if(null===e)throw new Error("source object cannot be null");if(!e.hasOwnProperty("src"))throw new Error('source object missing required "src" property');
